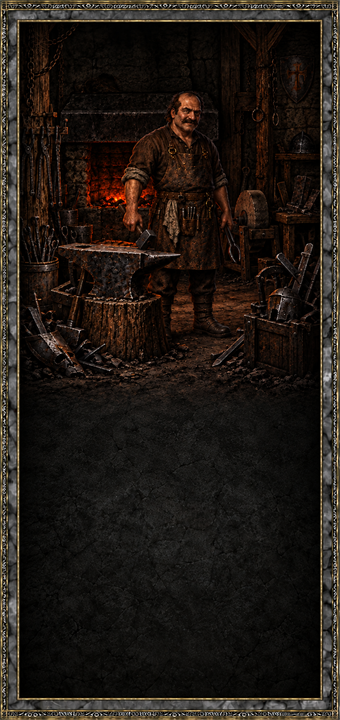
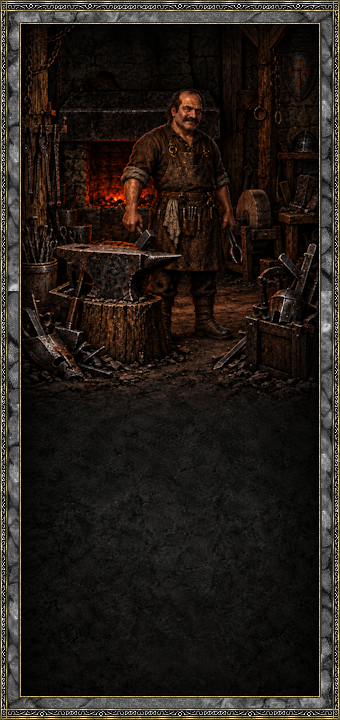
v1.12.100: the Salvage page wears the user's own 340x720 canvas (Griswold Salvage UI 340x720.png -> ui\salvage_canvas_tall.png); Griswold's TAB COLUMN stays in view beside it (user: "make sure when a user clicks on Salvage tab the tabs column remains visible") - shop_grid exports DrawShopTabColumnFo

Changed region(s): [[0.0, 0.0, 1.0, 1.0]]

diff --git a/Source/oracool/levski_roar.cpp b/Source/oracool/levski_roar.cpp
@@ -6,6 +6,7 @@
 
 #include <fmt/format.h>
 
+#include <cmath>
 #include <algorithm>
 #include <string>
 #include <vector>
@@ -33,6 +34,7 @@
 #include "oracool/book_frame.h" // the painted tall frame the recipe book wears
 #include "oracool/ornate_border.h"
 #include "oracool/salvage.h"
+#include "oracool/shop_grid.h" // the shop's tab column, kept beside Griswold's Salvage page (2026-09-21)
 #include "oracool/skill_sounds.h"
 #include "oracool/socket_overlay.h"
 #include "oracool/ui_sound.h"
@@ -301,7 +303,7 @@ constexpr const char *SalvageTallCanvasAsset = "ui\\salvage_canvas_tall.png";
 constexpr SalvageLayout SalvageTallPage {
 	{ 340, 720 }, SalvageTallCanvasAsset,
 	{ { 22, 26 }, { 296, 40 } },   // the title, in the dark of the smithy's roof
-	{ { 30, 480 }, { 280, 132 } }, // the results, inside the dark gold frame
+	{ { 30, 486 }, { 280, 126 } }, // the results, inside the gold frame; its title rides the top border
 	{ { 316, 5 }, { 18, 18 } },
 	{ { { 43, 344 }, { 56, 56 } },  // White
 	    { { 109, 344 }, { 56, 56 } }, // Magic
@@ -1313,29 +1315,72 @@ void DrawTallRecipeBook(const Surface &out)
 	(void)cursor;
 }
 
-/** @brief A 1 px rectangle outline in @p rgb - four fills, so a frame is a stack of these. */
-void OutlineRectRgb(const Surface &out, Rectangle rect, uint32_t rgb, uint8_t fallback)
+/**
+ * @brief The Salvage Results frame (user, 2026-09-21: "make the Salvage Results frame border 1px thick and use same
+ * color you use for items sprites frame"): ONE pixel, in inv.cpp's GridFrameGold - PAL16_YELLOW + 10, the darkened
+ * gold every item on every grid is outlined with since v1.12.094, so the two frames are the same frame.
+ */
+constexpr uint8_t SalvageFrameGold = PAL16_YELLOW + 10;
+/** How far the two lines bow from the border to clear the title, and how far along it the split takes. */
+constexpr int SalvageTitleBow = 9;
+constexpr int SalvageTitleReach = 7;
+
+/**
+ * @brief A quarter ellipse of single pixels from (cx + sx*rx, cy) round to (cx, cy + sy*ry).
+ *
+ * Stepped finely enough that the pixels touch at these radii; the curve is what rounds the corners where the
+ * frame's top border splits around the title and merges back.
+ */
+void PlotQuarterArc(const Surface &out, Point centre, int rx, int ry, int sx, int sy, uint8_t color)
 {
-	FillRectRgb(out, rect.position.x, rect.position.y, rect.size.width, 1, rgb, fallback);
-	FillRectRgb(out, rect.position.x, rect.position.y + rect.size.height - 1, rect.size.width, 1, rgb, fallback);
-	FillRectRgb(out, rect.position.x, rect.position.y, 1, rect.size.height, rgb, fallback);
-	FillRectRgb(out, rect.position.x + rect.size.width - 1, rect.position.y, 1, rect.size.height, rgb, fallback);
+	constexpr int Steps = 48;
+	for (int i = 0; i <= Steps; i++) {
+		const double t = i * (M_PI / 2) / Steps;
+		const int x = centre.x + static_cast<int>(std::lround(sx * rx * std::cos(t)));
+		const int y = centre.y + static_cast<int>(std::lround(sy * ry * std::sin(t)));
+		FillRect(out, x, y, 1, 1, color);
+	}
 }
 
 /**
- * @brief The dark gold frame around the tall page's results (user, 2026-09-21: "draw a dark gold frame for Salvage
- * results"): a lit edge, the dark gold body and a near-black keyline either side, so it reads as carved into the
- * painting rather than as a bright outline laid over it.
-*/
-void DrawDarkGoldFrame(const Surface &out, Rectangle inner)
+ * @brief The frame round the results, and the title ON its top border (user, 2026-09-21: "put Salvage results title
+ * somewhere along the top border of the salvage results frame and make sure that top border reaches the title, slipts
+ * into two lines with rounded edges to outline the Salvage results text and merges again back into one border line").
+ *
+ * So the top border runs in from each side, curves apart into a line above the title and a line below it, and curves
+ * back together - one continuous 1 px line that opens around the words and closes again.
+ */
+void DrawSalvageResultsFrame(const Surface &out, Rectangle inner, string_view title)
 {
-	const auto grown = [](Rectangle r, int by) {
-		return Rectangle { { r.position.x - by, r.position.y - by }, { r.size.width + 2 * by, r.size.height + 2 * by } };
-	};
-	OutlineRectRgb(out, grown(inner, 3), 0x120E07, 0);                   // the shadow the frame casts outward
-	OutlineRectRgb(out, grown(inner, 2), 0x8A6A1A, PAL16_YELLOW + 8);    // the lit edge
-	OutlineRectRgb(out, grown(inner, 1), 0x5E4712, PAL16_YELLOW + 12);   // the dark gold body
-	OutlineRectRgb(out, inner, 0x120E07, 0);                             // and the keyline inside it
+	const Rectangle f { { inner.position.x - 1, inner.position.y - 1 }, { inner.size.width + 2, inner.size.height + 2 } };
+	const int left = f.position.x;
+	const int right = f.position.x + f.size.width - 1;
+	const int top = f.position.y;
+	const int bottom = f.position.y + f.size.height - 1;
+	FillRect(out, left, top, 1, f.size.height, SalvageFrameGold);
+	FillRect(out, right, top, 1, f.size.height, SalvageFrameGold);
+	FillRect(out, left, bottom, f.size.width, 1, SalvageFrameGold);
+	if (title.empty()) {
+		FillRect(out, left, top, f.size.width, 1, SalvageFrameGold);
+		return;
+	}
+	const int half = GetLineWidth(title, GameFont12) / 2 + 7;
+	const int centreX = f.position.x + f.size.width / 2;
+	const int splitLeft = centreX - half;
+	const int splitRight = centreX + half;
+	// The border, in from each side as far as the curve.
+	FillRect(out, left, top, splitLeft - SalvageTitleReach - left, 1, SalvageFrameGold);
+	FillRect(out, splitRight + SalvageTitleReach, top, right - splitRight - SalvageTitleReach + 1, 1, SalvageFrameGold);
+	// The two lines that hold the title between them.
+	FillRect(out, splitLeft, top - SalvageTitleBow, splitRight - splitLeft + 1, 1, SalvageFrameGold);
+	FillRect(out, splitLeft, top + SalvageTitleBow, splitRight - splitLeft + 1, 1, SalvageFrameGold);
+	// And the four rounded corners: out of the border and up, out and down, and the same again on the way back in.
+	PlotQuarterArc(out, { splitLeft, top }, SalvageTitleReach, SalvageTitleBow, -1, -1, SalvageFrameGold);
+	PlotQuarterArc(out, { splitLeft, top }, SalvageTitleReach, SalvageTitleBow, -1, 1, SalvageFrameGold);
+	PlotQuarterArc(out, { splitRight, top }, SalvageTitleReach, SalvageTitleBow, 1, -1, SalvageFrameGold);
+	PlotQuarterArc(out, { splitRight, top }, SalvageTitleReach, SalvageTitleBow, 1, 1, SalvageFrameGold);
+	DrawString(out, title, Rectangle { { splitLeft, top - SalvageTitleBow }, { splitRight - splitLeft, 2 * SalvageTitleBow } },
+	    { UiFlags::ColorGold | UiFlags::FontSize12 | UiFlags::AlignCenter | UiFlags::VerticalCenter });
 }
 /** @brief Griswold's painted Salvage window: the forge, the title, the seven icons with the button feel, the results. */
 void DrawSalvageWindow(const Surface &out, const Rectangle &window)
@@ -1371,7 +1416,11 @@ void DrawSalvageWindow(const Surface &out, const Rectangle &window)
 
 	const Rectangle results { window.position + Displacement { page->results.position.x, page->results.position.y }, page->results.size };
 	if (page->goldFrame)
-		DrawDarkGoldFrame(out, results);
+		DrawSalvageResultsFrame(out, results, _("Salvage Results"));
+	// Griswold's tabs stay in view beside his Salvage page (user, 2026-09-21: "make sure when a user clicks on
+	// Salvage tab the tabs column remains visible"), drawn from the shop's own column so the two cannot drift.
+	if (page->docked)
+		DrawShopTabColumnFor(out, TalkID::SmithTransmute);
 
 	// The message (user, 2026-09-21): "X Rare Items destroyed", then the material's sprite in a 60x60 plate with a
 	// 1 px outline OUTSIDE it in the tier's colour and "X Rare Fibres Salvaged" beside it - all in the tier's colour,
@@ -1665,6 +1714,22 @@ bool CheckLevskiRoarClick(Point mousePosition, bool isCtrlHeld)
 	if (!WindowOpen)
 		return false;
 
+	// The tab column beside the Salvage page: a click on another of Griswold's tabs closes this page and opens that
+	// shelf, and a click on Salvage itself is absorbed (2026-09-21). Tested before the window, since the column is
+	// outside it.
+	if (const SalvageLayout *page = SalvagePage(); page != nullptr && page->docked) {
+		const TalkID tab = ShopTabAt(mousePosition, TalkID::SmithTransmute);
+		if (tab != TalkID::None) {
+			if (tab != TalkID::SmithTransmute) {
+				CloseLevskiRoar();
+				if (!WindowOpen) {
+					StartStore(tab);
+					PlayUiMoveSound();
+				}
+			}
+			return true;
+		}
+	}
 	const Rectangle window = GetLevskiRoarRect();
 	const Rectangle book = GetLevskiRecipeBookRect();
 	const Rectangle bookInner = RecipeBookInner(book); // the rows and clips are laid out from the frame's core

diff --git a/Source/oracool/shop_grid.cpp b/Source/oracool/shop_grid.cpp
@@ -935,13 +935,13 @@ void DrawShopControls(const Surface &out, int pageCount)
 }
 
 /** @brief The tab column beside the panel, drawn after it so the tabs sit on top of nothing. */
-void DrawShopTabColumn(const Surface &out)
+void DrawShopTabColumn(const Surface &out, TalkID open)
 {
-	const std::vector<TalkID> tabs = ShopTabsFor(stextflag);
+	const std::vector<TalkID> tabs = ShopTabsFor(open);
 	const bool tabArt = HasShopArt(ShopTabArt);
 	for (size_t i = 0; i < tabs.size(); i++) {
 		const Rectangle rect = ShopTabRect(i);
-		const bool active = tabs[i] == stextflag;
+		const bool active = tabs[i] == open;
 		const bool hovered = rect.contains(MousePosition);
 		// The vanilla button on its side: lit for the open shelf, at rest under the pointer and pressed in
 		// otherwise, so the shelves not showing step back and the open one stands out.
@@ -995,6 +995,21 @@ void DrawShopClose(const Surface &out)
 }
 
 } // namespace
+
+void DrawShopTabColumnFor(const Surface &out, TalkID open)
+{
+	DrawShopTabColumn(out, open);
+}
+
+TalkID ShopTabAt(Point position, TalkID open)
+{
+	const std::vector<TalkID> tabs = ShopTabsFor(open);
+	for (size_t i = 0; i < tabs.size(); i++) {
+		if (ShopTabRect(i).contains(position))
+			return tabs[i];
+	}
+	return TalkID::None;
+}
 
 bool ShopVanillaButtonArtLoaded()
 {
@@ -1171,7 +1186,7 @@ void DrawShopGrid(const Surface &out)
 	}
 
 	DrawShopControls(out, pageCount);
-	DrawShopTabColumn(out);
+	DrawShopTabColumn(out, stextflag);
 	DrawShopClose(out);
 }
 

diff --git a/Source/oracool/shop_grid.h b/Source/oracool/shop_grid.h
@@ -59,6 +59,16 @@ namespace devilution::oracool {
  */
 bool ShopVanillaButtonArtLoaded();
 
+/**
+ * @brief Draws the tab column @p open's vendor shows, beside the shop panel's rect.
+ *
+ * Exported for Griswold's Salvage page, which is not a shop screen but sits in the shop panel's place and keeps his
+ * tabs in view beside it (user, 2026-09-21). Drawn from the shop's own column, so the two cannot drift apart.
+ */
+void DrawShopTabColumnFor(const Surface &out, TalkID open);
+
+/** @brief The tab under @p position in that column, or TalkID::None. The caller decides what switching costs. */
+TalkID ShopTabAt(Point position, TalkID open);
 /** @brief Whether @p id is drawn as the icon grid rather than as the vanilla text list. */
 bool IsShopGridScreen(TalkID id);
 

diff --git a/.ProjectDocumentation/02-Development-Reports/2026-09-21-salvage-page-canvas-tabs-cartouche-v1.12.100.md b/.ProjectDocumentation/02-Development-Reports/2026-09-21-salvage-page-canvas-tabs-cartouche-v1.12.100.md
@@ -1,0 +1,36 @@
+# The Salvage page on the user's own canvas, with his tabs beside it and a titled frame (v1.12.100)
+
+**Date:** 2026-09-21 · **Version:** v1.12.100 · **Tests:** 832/832
+
+Three asks in one pass (user, 2026-09-21).
+
+## 1. The canvas
+
+"use this Canvas image ... Griswold Salvage UI 340x720.png": already 340x720, copied as `ui\salvage_canvas_tall.png`
+in place of v1.12.099's resampled full-size painting. Measured: the canvas's opening is the shared one (x 22..317,
+y 25..694) and the lit forge gives way to bare floor at about y 385, so the icon rows keep their places - White,
+Magic, Rare, Unique at y 344 across the floor line, Set, Primal, Ethereal at y 410.
+
+## 2. The tabs stay in view
+
+"make sure when a user clicks on Salvage tab the tabs column remains visible." The Salvage page is not a shop screen
+(`stextflag` is None while it is open), so the shop's own column was not drawn. `shop_grid` now exports
+`DrawShopTabColumnFor(out, open)` and `ShopTabAt(position, open)` - the internal column parameterised by which tab is
+open rather than reading `stextflag` - and the docked Salvage page draws Griswold's column with Salvage lit, and
+routes clicks on it: another tab closes the page and opens that shelf (`CloseLevskiRoar` then `StartStore`), Salvage
+itself is absorbed. Tested before the window's own rect, since the column sits outside it.
+
+## 3. The frame and its title
+
+"make the Salvage Results frame border 1px thick and use same color you use for items sprites frame" and "put Salvage
+results title somewhere along the top border ... splits into two lines with rounded edges to outline the Salvage
+results text and merges again back into one border line."
+
+`DrawSalvageResultsFrame` draws one pixel of `PAL16_YELLOW + 10` - inv.cpp's `GridFrameGold`, the same gold every item
+sprite is outlined with since v1.12.094. On the top border the line runs in from each side, curves apart through a
+quarter ellipse (`PlotQuarterArc`, reach 7, bow 9) into a line above the title and a line below it, and curves back
+together. "Salvage Results" sits between them in the game's gold. The four rings of v1.12.099's dark gold frame are
+gone with `DrawDarkGoldFrame`.
+
+The results box moved to (30,486) 280x126 so the upper line of the cartouche clears the icons by ten pixels; its
+bottom edge is y 612, still above the inventory grid's floor at 618, so the orbs stay clear.
